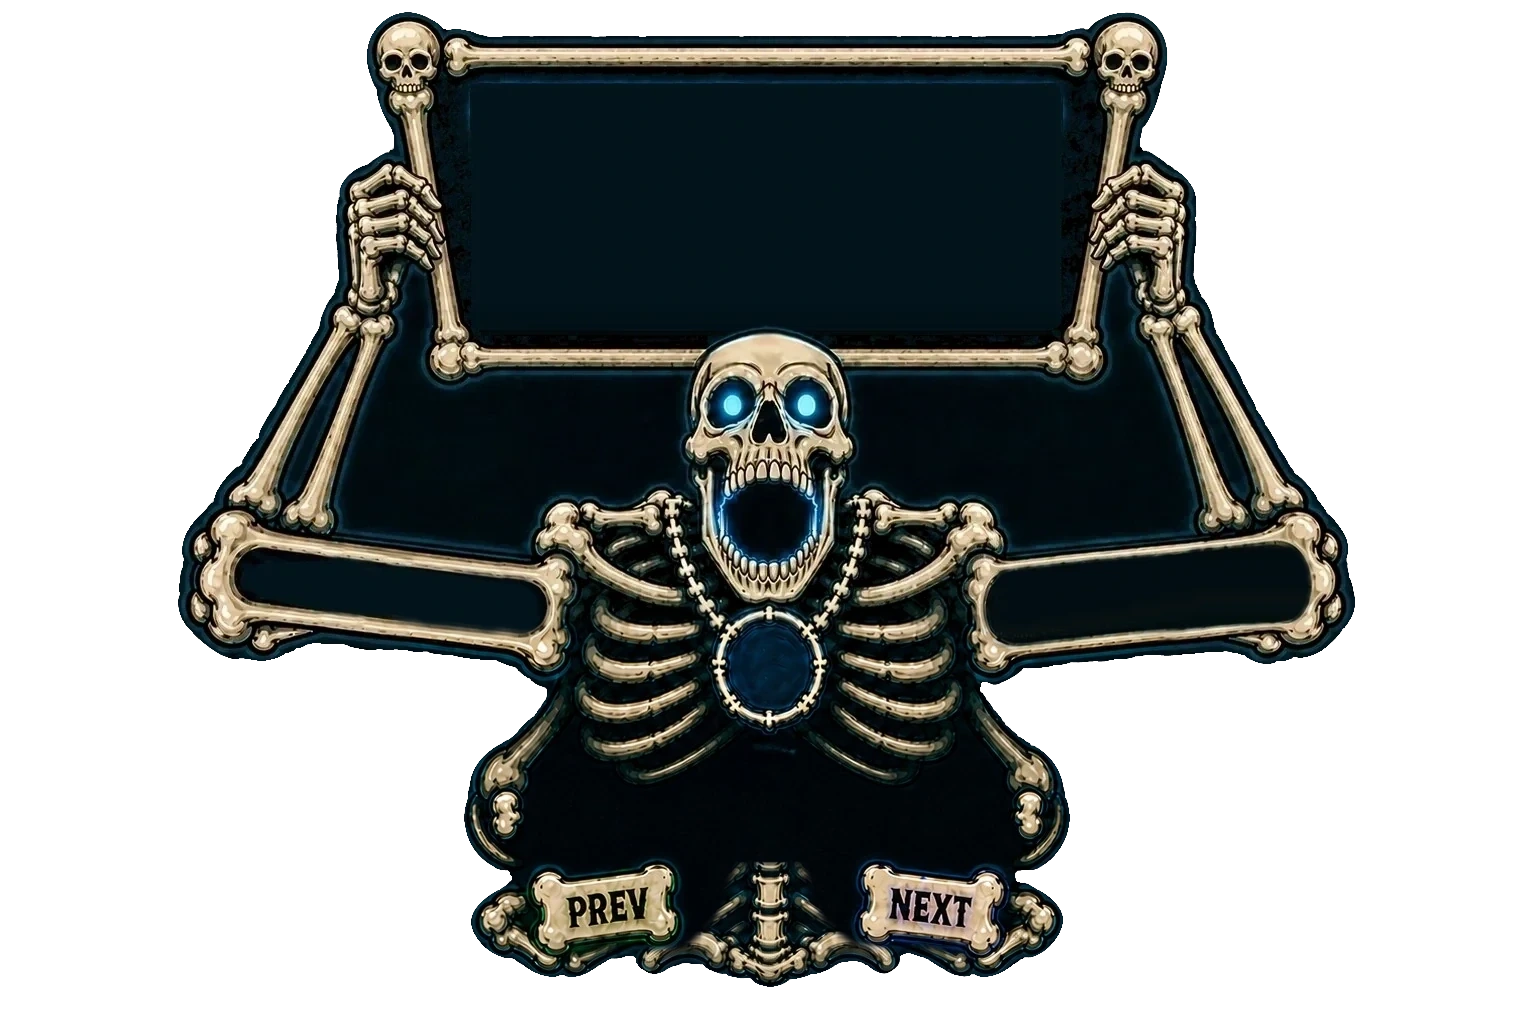
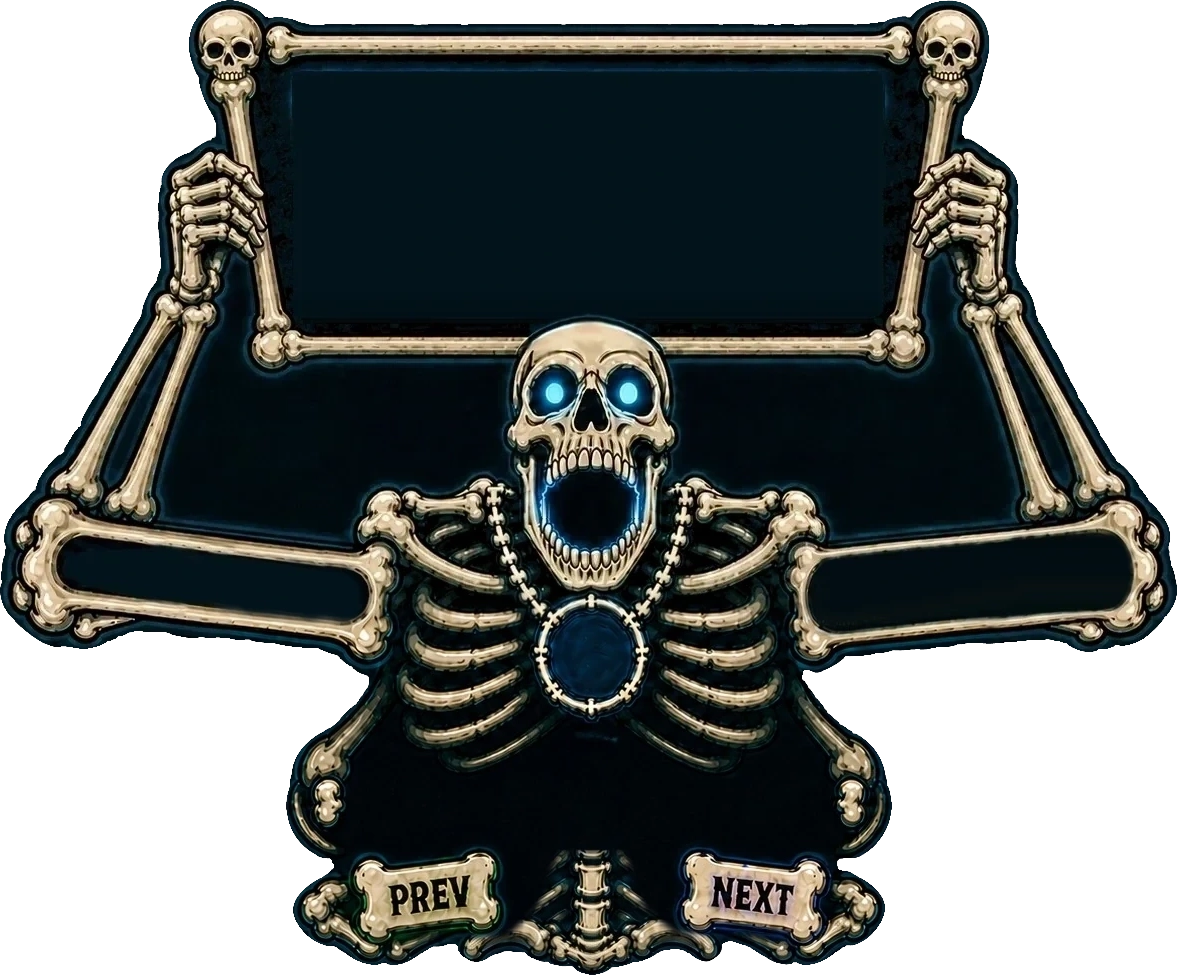
style(skins): offset Skeleton plate art inside window frame
- Add `shapeFrame` property to Skin interface for specifying plate art inset
- Define PLATE_FRAME constant in SkeletonSkin with crop coordinates (178, 12) and dimensions from 1534×1025 frame
- Pass plate frame to `applySkinShape()` calls in Player and SkeletonSkin
- Set CSS custom properties (--sk-plate-x/y/w/h) during skin mount to position art layer
- Refactor CSS to draw plate as separate `::before` layer instead of full background stretch
- Update window shape calculation to sample mask from same inset as rendered art
- Hide plate layer in mini-mode via display: none
- Maintain control positioning consistency between painted asset and OS window shape via shared frame offset

diff --git a/src/renderer/windowShape.ts b/src/renderer/windowShape.ts
@@ -14,6 +14,11 @@
 
 type Rect = { x: number; y: number; width: number; height: number }
 
+/** Where a plate asset sits inside the window, as fractions of it. A skin whose
+ *  art is cropped tighter than its layout frame passes this so the mask is
+ *  sampled from the same inset the CSS draws the art at. */
+export type ShapeFrame = { x: number; y: number; width: number; height: number }
+
 /** Alpha at or below this is outside the painted body. */
 const SHARP_ALPHA = 24
 /** The aura is faint by design; this is where it is effectively invisible. */
@@ -25,6 +30,8 @@ let mask: Uint8Array | null = null
 let maskW = 0
 let maskH = 0
 let source: string | null = null
+/** Inset of the plate inside the window; null means it fills the window. */
+let plate: ShapeFrame | null = null
 let resizeTimer: number | undefined
 /** The silhouette currently applied, so a drag can lift it and put it back. */
 let lastRects: Rect[] = []
@@ -93,10 +100,16 @@ export function isOnSkin(clientX: number, clientY: number): boolean {
 }
 
 /** Load the skin's plate, cache its alpha, and reshape the OS window.
+ *  `plateFrame` is the art's inset inside the window (omit when it fills it).
  *  `attempt` guards the resample loop below against a window that keeps
  *  changing size while the mask is sampled. */
-export async function applySkinShape(url?: string, attempt = 0): Promise<void> {
+export async function applySkinShape(
+  url?: string,
+  plateFrame: ShapeFrame | null = null,
+  attempt = 0,
+): Promise<void> {
   source = url ?? null
+  plate = plateFrame
   if (!url || typeof window.skinwalker?.setWindowShape !== 'function') {
     mask = null
     send([])
@@ -130,15 +143,21 @@ export async function applySkinShape(url?: string, attempt = 0): Promise<void> {
   const ctx = canvas.getContext('2d', { willReadFrequently: true })
   if (!ctx) return
 
+  // The art's own box inside the window, so a cropped plate keeps its place.
+  const dx = (plate?.x ?? 0) * w
+  const dy = (plate?.y ?? 0) * h
+  const dw = (plate?.width ?? 1) * w
+  const dh = (plate?.height ?? 1) * h
+
   // Painted body.
-  ctx.drawImage(img, 0, 0, w, h)
+  ctx.drawImage(img, dx, dy, dw, dh)
   const sharp = ctx.getImageData(0, 0, w, h).data
 
   // The aura around it — a blurred copy — so the shape does not slice the
   // glow off at the silhouette and leave a hard edge.
   ctx.clearRect(0, 0, w, h)
   ctx.filter = 'blur(8px)'
-  ctx.drawImage(img, 0, 0, w, h)
+  ctx.drawImage(img, dx, dy, dw, dh)
   ctx.filter = 'none'
   const glow = ctx.getImageData(0, 0, w, h).data
 
@@ -167,7 +186,7 @@ export async function applySkinShape(url?: string, attempt = 0): Promise<void> {
   // are clipped by the OS against the new window, which cuts whole bands
   // (the wide wing rows) out of the silhouette — resample for the new size.
   if (attempt < 2 && (Math.abs(window.innerWidth - viewW) > 1 || Math.abs(window.innerHeight - viewH) > 1)) {
-    return applySkinShape(url, attempt + 1)
+    return applySkinShape(url, plateFrame, attempt + 1)
   }
 
   maskW = w
@@ -215,6 +234,6 @@ export function installShapeResize(): void {
     // under an open board would clip it again.
     if (!source || lifted) return
     window.clearTimeout(resizeTimer)
-    resizeTimer = window.setTimeout(() => void applySkinShape(source ?? undefined), 150)
+    resizeTimer = window.setTimeout(() => void applySkinShape(source ?? undefined, plate), 150)
   })
 }

diff --git a/src/renderer/skins/SkeletonSkin.ts b/src/renderer/skins/SkeletonSkin.ts
@@ -44,6 +44,19 @@ import type { Player } from '../player/Player'
 
 /** Full 3:2 stage and the 620:622 face card the window shrinks to. */
 const STAGE_SIZE = { width: 960, height: 640, minWidth: 560, minHeight: 380 }
+/**
+ * The plate asset is cropped to its painted art — 1177×975 taken from the
+ * (178, 12) corner of the 1534×1025 stage it was cut from — while every
+ * control below is positioned on that stage. The art is therefore drawn at
+ * this inset inside the window, and the OS window shape is sampled from the
+ * same inset, so the buttons keep landing on their painted counterparts.
+ */
+const PLATE_FRAME = {
+  x: 178 / 1534,
+  y: 12 / 1025,
+  width: 1177 / 1534,
+  height: 975 / 1025,
+}
 const MINI_SIZE = { width: 340, height: 351, minWidth: 340, minHeight: 351 }
 
 /** Spectrum resolution — the web build's teeth line draws 24 bars */
@@ -75,7 +88,9 @@ export class SkeletonSkin implements Skin {
   readonly id = 'skeleton'
   readonly label = 'Skeleton'
   readonly shapeImage = framePlate
-  /** 3:2, like the web build's stage — the plate is 1534×1025 */
+  readonly shapeFrame = PLATE_FRAME
+  /** 3:2, like the web build's stage — the frame every control sits on is
+   *  1534×1025, and the plate asset is cropped inside it (see PLATE_FRAME) */
   readonly windowSize = { width: 960, height: 640 }
 
   private container: HTMLElement | null = null
@@ -102,6 +117,13 @@ export class SkeletonSkin implements Skin {
     this.container = document.createElement('div')
     this.container.className = 'skin skeleton-skin'
     this.container.style.setProperty('--sk-frame-url', `url("${framePlate}")`)
+    // The plate layer's inset inside the 3:2 frame, from the same numbers the
+    // window shape uses.
+    const plate = this.container.style
+    plate.setProperty('--sk-plate-x', `${PLATE_FRAME.x * 100}%`)
+    plate.setProperty('--sk-plate-y', `${PLATE_FRAME.y * 100}%`)
+    plate.setProperty('--sk-plate-w', `${PLATE_FRAME.width * 100}%`)
+    plate.setProperty('--sk-plate-h', `${PLATE_FRAME.height * 100}%`)
     this.container.innerHTML = this.template()
     app.innerHTML = ''
     app.appendChild(this.container)
@@ -375,7 +397,7 @@ export class SkeletonSkin implements Skin {
     this.mini = false
     this.container.classList.remove('mini-mode')
     window.skinwalker?.setWindowSize?.(STAGE_SIZE)
-    window.setTimeout(() => void applySkinShape(framePlate), 60)
+    window.setTimeout(() => void applySkinShape(framePlate, PLATE_FRAME), 60)
   }
 
   /** Artist line with the web build's cyan bullet */

diff --git a/src/renderer/style.css b/src/renderer/style.css
@@ -1396,7 +1396,22 @@ input[type="range"]::-moz-range-thumb {
   height: 100vh;
   margin: 0;
   container-type: inline-size;
+  background: none;
+}
+/* The plate art is cropped tighter than the frame the controls are placed on,
+   so it is drawn as its own layer at --sk-plate-* (the crop's inset and size in
+   the frame) instead of being stretched over the whole window. Every position
+   below is still a percentage of the frame, and the art lines up with them. */
+.skeleton-skin .sk-body::before {
+  content: "";
+  position: absolute;
+  left: var(--sk-plate-x, 0%);
+  top: var(--sk-plate-y, 0%);
+  width: var(--sk-plate-w, 100%);
+  height: var(--sk-plate-h, 100%);
   background: var(--sk-frame-url) center / 100% 100% no-repeat;
+  pointer-events: none;
+  z-index: 0;
 }
 
 /* Bone board overhead = playlist. Sits inside the plate's painted rim and is
@@ -1873,6 +1888,7 @@ input[type="range"]::-moz-range-thumb {
    it. The card itself stays transparent. */
 .skeleton-skin .sk-mini { display: none; }
 .skeleton-skin.mini-mode .sk-body { background: none; }
+.skeleton-skin.mini-mode .sk-body::before { display: none; }
 .skeleton-skin.mini-mode .sk-body > :not(.sk-mini) { display: none; }
 .skeleton-skin.mini-mode .sk-mini {
   position: absolute;

diff --git a/src/renderer/skins/Skin.ts b/src/renderer/skins/Skin.ts
@@ -17,6 +17,9 @@ export interface Skin {
   /** Plate artwork whose alpha defines the OS window shape and the drag
    *  area. Omit and the window stays a plain rectangle. */
   readonly shapeImage?: string
+  /** Where the plate art sits inside the window as fractions of it, when the
+   *  asset is cropped tighter than the layout frame (default: fills it). */
+  readonly shapeFrame?: { x: number; y: number; width: number; height: number }
   mount(player: Player): void
   unmount(): void
   /** Called when tracks are added mid-session so the skin can refresh its playlist UI */

diff --git a/src/renderer/player/Player.ts b/src/renderer/player/Player.ts
@@ -101,7 +101,7 @@ export class Player {
     saveLastSkinId(skin.id)
     // The skin owns the window size and shape
     window.skinwalker?.setWindowSize(skin.windowSize ?? { width: 480, height: 720 })
-    void applySkinShape(skin.shapeImage)
+    void applySkinShape(skin.shapeImage, skin.shapeFrame ?? null)
     // Re-notify the fresh skin of the current track so its title, artist
     // and playlist highlight survive a mid-playback swap (the callback is
     // assigned by the skin during mount).
